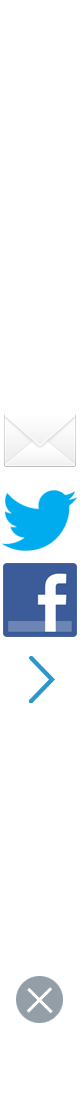
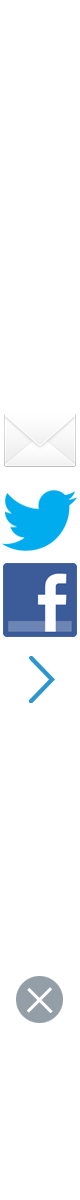
Updated buttons and fixed Nav item

Changed region(s): [[0.025, 0.3438, 0.975, 0.625], [0.2, 0.8125, 0.8, 0.9375]]

diff --git a/public/css/styles.css b/public/css/styles.css
@@ -160,15 +160,21 @@ body {
 }
 .arrow {
 	background-size: 40px !important;
-	background-position: right -357px !important;
+	background-position: right -360px !important;
 }
+
+.arrow-down {
+	background-size: 40px !important;
+	background-position: right -560px !important;
+}
+
 .arrow-alt {
 	background-size: 40px !important;
 	background-position: right -556px !important;
 }
 .blue-arrow {
 	background-size: 40px;
-	background-position: right -319px;
+	background-position: right -320px;
 }
 span[class^="fm-icon-"] {
 	display: inline-block;
@@ -259,6 +265,14 @@ span[class^="fm-icon-"] {
 	text-transform: uppercase;
 }
 
+.fm-navigation-vehicles li .fm-nav-open {
+	color: white;
+	background-color: #425967;
+	/*background: url("../img/iconsFord@2x.png") no-repeat;*/
+	border-top: none;
+	list-style: none;
+}
+
 .fm-navigation-media li {
 	background: #31A1DB;
 	border-bottom: 1px solid #3F6075;
@@ -325,6 +339,10 @@ span[class^="fm-icon-"] {
 	margin: 5px 0;
 	position: relative;
 	text-indent: 10px;
+}
+
+.fm-accordian-button-open {
+
 }
 
 .fm-button-menu {
@@ -586,9 +604,6 @@ filter: progid:DXImageTransform.Microsoft.gradient( startColorstr='#fefefe', end
 	box-shadow: inset 1px 1px 2px rgba(0, 0, 0, .3);
 }
 
-
-
-
 .fm-gallery {
 	max-width: 480px;
 	min-width: 320px;
@@ -639,7 +654,6 @@ filter: progid:DXImageTransform.Microsoft.gradient( startColorstr='#fefefe', end
 			height: auto;
 			display: block;
 		}
-
 
 
 
